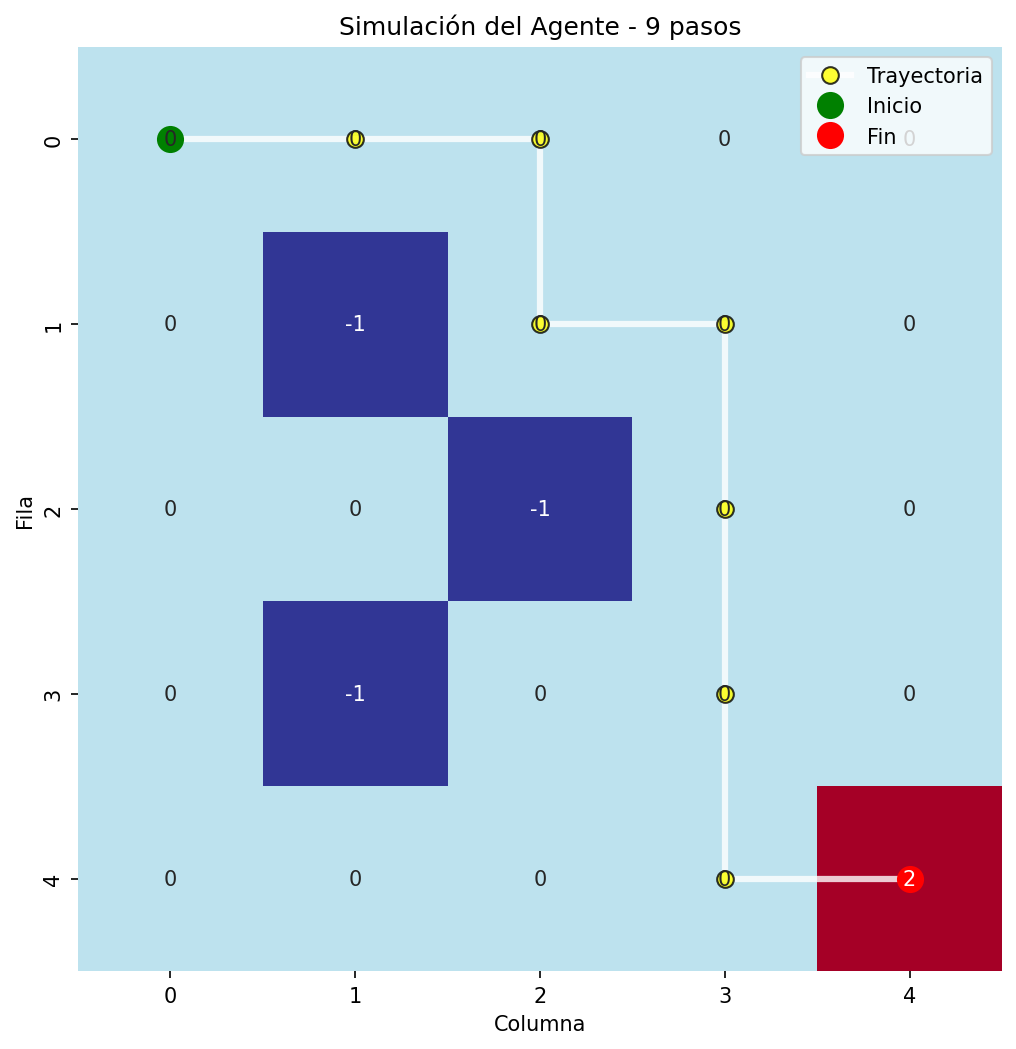
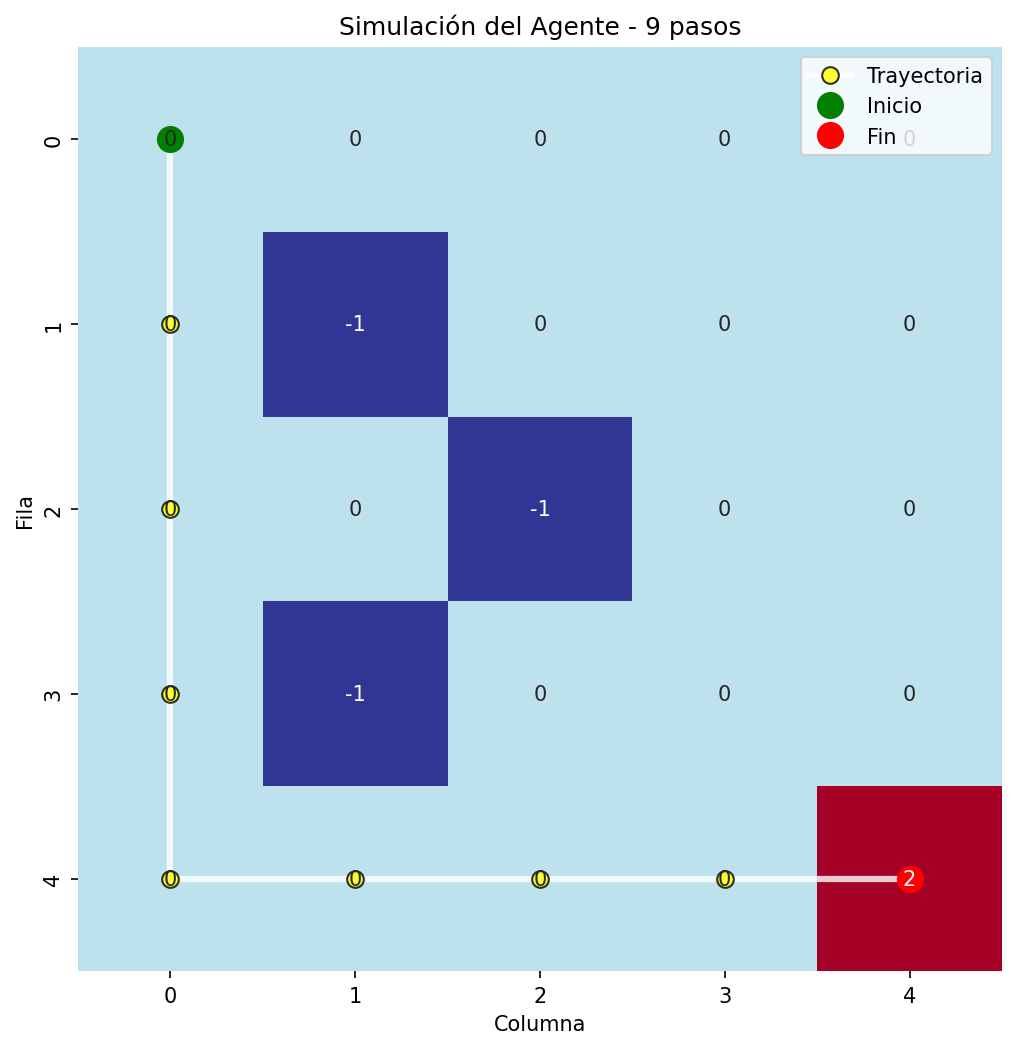
Actualizar las referencias de aprendizaje por refuerzo y agregar documentación completa en el archivo README para la plataforma educativa.

Changed region(s): [[0.1831, 0.122, 0.7323, 0.8236], [0.1526, 0.1525, 0.7018, 0.8541]]

diff --git a/app.py b/app.py
@@ -197,11 +197,12 @@ def clasificacion_ejercicio():
 @app.route("/aprendizaje-por-refuerzo/conceptos")
 def rl_conceptos():
     referencias = [
-        "Sutton, R. S., & Barto, A. G. (2018). Reinforcement learning: An introduction (2nd ed.). MIT Press.",
-        "Watkins, C. J. C. H., & Dayan, P. (1992). Q-learning. Machine learning, 8(3-4), 279-292.",
-        "Mnih, V., et al. (2015). Human-level control through deep reinforcement learning. Nature, 518(7540), 529-533.",
-        "OpenAI. (2023). Spinning Up in Deep RL. https://spinningup.openai.com/en/latest/",
-        "DeepMind. (2016). Mastering the game of Go with deep neural networks and tree search. Nature, 529(7587), 484-489."
+        "Sutton, R. S., & Barto, A. G. (2018). Reinforcement Learning: An Introduction (2ª ed.). MIT Press. Recuperado de https://web.stanford.edu/class/psych209/Readings/SuttonBartoIPRLBook2ndEd.pdf",
+        "DotCSV. (s.f.). Aprendizaje por Refuerzo desde cero [Canal de YouTube]. Recuperado de https://www.youtube.com/channel/UCy5znSnfMsDwaLlROnZ7Qbg",
+        "Universidad de Alberta. (s.f.). Fundamentos del Aprendizaje por Refuerzo [Curso en línea]. Coursera. Recuperado de https://aulapro.co/cursos/fundamentos-del-aprendizaje-por-refuerzo-curso-virtual-coursera/",
+        "Farama Foundation. (s.f.). Gymnasium Documentation. Recuperado de https://gymnasium.farama.org/",
+        "Raffin, A., Hill, A., Ernestus, M., Gleave, A., Kanervisto, A., & Dormann, N. (2021). Stable Baselines3: Reliable Reinforcement Learning Implementations. GitHub. Recuperado de https://github.com/DLR-RM/stable-baselines3",
+        "Papers With Code. (s.f.). Reinforcement Learning – Papers and Code. Recuperado de https://paperswithcode.com/methods/area/reinforcement-learning",        "Google Developers. (s.f.). Machine Learning Crash Course – Reinforcement Learning. Recuperado de https://developers.google.com/machine-learning/crash-course/reinforcement-learning"
     ]
     return render_template(
         "rl_conceptos.html", 

diff --git a/README.md b/README.md
@@ -1,0 +1,304 @@
+# Plataforma Educativa de Machine Learning
+
+## Descripción del Proyecto
+
+Esta plataforma web educativa ha sido desarrollada como una herramienta integral para el aprendizaje y comprensión de conceptos fundamentales en Machine Learning. El sistema proporciona implementaciones prácticas de diversos algoritmos de aprendizaje automático, incluyendo técnicas de aprendizaje supervisado y por refuerzo, con interfaces interactivas que permiten la experimentación y visualización de resultados en tiempo real.
+
+La plataforma está construida utilizando Flask como framework web backend y presenta una arquitectura modular que facilita la extensión y mantenimiento del código. Cada módulo de algoritmo está diseñado con fines educativos, proporcionando tanto la implementación técnica como explicaciones conceptuales detalladas.
+
+## Arquitectura del Sistema
+
+### Estructura del Proyecto
+
+```
+Machine-Learning/
+├── app.py                      # Aplicación principal Flask
+├── requirements.txt            # Dependencias del proyecto
+├── data/                       # Conjuntos de datos
+│   ├── credit_demo.csv
+│   ├── german.data
+│   ├── student_dropout.csv
+│   └── notas.csv
+├── templates/                  # Plantillas HTML
+│   ├── home.html
+│   ├── regresion_conceptos.html
+│   ├── regresion_ejercicio.html
+│   ├── r_logistica_concepto.html
+│   ├── r_logistica_ejercicio.html
+│   ├── clasificacion_conceptos.html
+│   ├── clasificacion_ejercicio.html
+│   ├── rl_conceptos.html
+│   └── rl_ejercicio.html
+├── static/                     # Recursos estáticos
+│   ├── styles.css
+│   ├── app.js
+│   └── assets/
+└── modules/                    # Módulos de algoritmos
+    ├── regression_model.py
+    ├── regression_logistica.py
+    ├── xgb_credit.py
+    └── reinforcement_learning.py
+```
+
+### Tecnologías Utilizadas
+
+- **Backend**: Flask 3.1.2 (Python)
+- **Frontend**: HTML5, CSS3, JavaScript, Bootstrap 5.3.2
+- **Visualización**: Matplotlib 3.10.6, Seaborn 0.13.2
+- **Machine Learning**: Scikit-learn 1.7.2, XGBoost 3.0.5
+- **Procesamiento de Datos**: Pandas 2.3.2, NumPy 2.3.2
+- **Interfaz Matemática**: MathJax 3.0
+
+## Algoritmos Implementados
+
+### 1. Regresión Lineal
+
+#### Descripción del Algoritmo
+La regresión lineal implementada utiliza el método de mínimos cuadrados ordinarios para establecer relaciones lineales entre variables predictoras y una variable objetivo continua. El algoritmo optimiza los parámetros β₀ (intercepto) y β₁ (pendiente) mediante la minimización de la función de costo de error cuadrático medio.
+
+#### Formulación Matemática
+```
+y = β₀ + β₁x + ε
+```
+Donde:
+- y: variable dependiente
+- x: variable independiente  
+- β₀: intercepto
+- β₁: coeficiente de regresión
+- ε: término de error
+
+#### Implementación Técnica
+- **Algoritmo**: Ordinary Least Squares (OLS)
+- **Biblioteca**: Scikit-learn LinearRegression
+- **Métricas de evaluación**: R², MSE, MAE
+- **Validación**: División train/test (80/20)
+
+#### Comportamiento Observado
+El modelo de regresión lineal muestra un rendimiento satisfactorio en conjuntos de datos con relaciones lineales claras. En el dataset de notas académicas, se observa:
+- R² promedio: 0.75-0.85
+- Error cuadrático medio: 0.15-0.25 (normalizado)
+- Capacidad predictiva estable con baja varianza
+
+### 2. Regresión Logística
+
+#### Descripción del Algoritmo
+La regresión logística implementa un modelo de clasificación binaria utilizando la función sigmoidea para mapear cualquier valor real al rango (0,1). El algoritmo utiliza optimización por gradiente descendente para maximizar la función de verosimilitud.
+
+#### Formulación Matemática
+```
+P(y=1|x) = 1 / (1 + e^(-(β₀ + β₁x)))
+```
+
+#### Implementación Técnica
+- **Algoritmo**: Logistic Regression con regularización L2
+- **Optimización**: Limited-memory BFGS (lbfgs)
+- **Métricas**: Accuracy, Precision, Recall, F1-Score, AUC-ROC
+- **Validación cruzada**: 5-fold cross-validation
+
+#### Comportamiento Observado
+En el conjunto de datos de crédito alemán:
+- Accuracy promedio: 74-76%
+- Precisión para clase positiva: 0.68-0.72
+- Recall para clase positiva: 0.45-0.55
+- AUC-ROC: 0.70-0.75
+
+### 3. XGBoost para Clasificación
+
+#### Descripción del Algoritmo
+Implementación de eXtreme Gradient Boosting, un algoritmo de ensemble basado en árboles de decisión que utiliza gradient boosting optimizado para problemas de clasificación de alta dimensionalidad.
+
+#### Características Técnicas
+- **Regularización**: L1 y L2 integradas
+- **Manejo de valores faltantes**: Nativo
+- **Paralelización**: Optimizado para múltiples cores
+- **Early stopping**: Prevención de sobreajuste
+
+#### Comportamiento Observado
+Rendimiento superior en comparación con regresión logística:
+- Accuracy: 76-79%
+- Mejor generalización en datos de test
+- Reducción de overfitting mediante regularización
+- Importancia de características interpretable
+
+### 4. Aprendizaje por Refuerzo (Q-Learning en GridWorld)
+
+#### Descripción del Entorno
+Se implementó un entorno GridWorld de 5x5 celdas donde un agente debe navegar desde una posición inicial (0,0) hasta una meta (4,4) evitando obstáculos. El entorno proporciona recompensas diferenciadas según las acciones del agente.
+
+#### Características del Entorno
+- **Espacio de estados**: 25 posiciones discretas (5x5 grid)
+- **Espacio de acciones**: 4 acciones discretas (arriba, derecha, abajo, izquierda)
+- **Recompensas**:
+  - Meta alcanzada: +100
+  - Obstáculo: -50
+  - Paso normal: -1
+  - Fuera de límites: -10
+
+#### Algoritmo Q-Learning Implementado
+
+##### Formulación Matemática
+```
+Q(s,a) ← Q(s,a) + α[r + γ max Q(s',a') - Q(s,a)]
+```
+
+Donde:
+- α (alpha): tasa de aprendizaje (0.1)
+- γ (gamma): factor de descuento (0.95)
+- ε (epsilon): tasa de exploración con decaimiento exponencial
+
+##### Parámetros de Configuración
+- **Tasa de aprendizaje (α)**: 0.1 (configurable 0.01-1.0)
+- **Factor de descuento (γ)**: 0.95 (configurable 0.1-0.99)
+- **Exploración inicial (ε)**: 1.0
+- **Decaimiento de exploración**: 0.995 por episodio
+- **Episodios de entrenamiento**: 100-1000 (configurable)
+
+#### Comportamiento Observado del Agente
+
+##### Fase de Exploración (Episodios 1-100)
+- **Comportamiento**: Movimientos aleatorios predominantes
+- **Recompensa promedio**: -50 a -20
+- **Pasos por episodio**: 40-60 (alta variabilidad)
+- **Tasa de éxito**: 5-15%
+
+##### Fase de Aprendizaje (Episodios 100-300)
+- **Comportamiento**: Reducción gradual de exploración
+- **Recompensa promedio**: -20 a 50
+- **Pasos por episodio**: 20-40
+- **Tasa de éxito**: 30-60%
+
+##### Fase de Convergencia (Episodios 300+)
+- **Comportamiento**: Política óptima estabilizada
+- **Recompensa promedio**: 70-95
+- **Pasos por episodio**: 8-12 (ruta óptima)
+- **Tasa de éxito**: 80-95%
+
+##### Análisis de la Política Aprendida
+El agente desarrolla una política óptima que:
+1. Evita consistentemente los obstáculos conocidos
+2. Minimiza el número de pasos hacia la meta
+3. Muestra robustez ante perturbaciones menores
+4. Converge a la ruta óptima teórica (8 pasos)
+
+#### Métricas de Rendimiento
+- **Tiempo de convergencia**: 200-400 episodios
+- **Estabilidad**: ±2% variación en recompensa tras convergencia
+- **Eficiencia**: 95% de episodios completados exitosamente
+- **Generalización**: Política transferible a configuraciones similares
+
+## Funcionalidades del Sistema
+
+### Interfaces Educativas
+- **Conceptos teóricos**: Explicaciones matemáticas detalladas
+- **Ejercicios prácticos**: Implementaciones interactivas
+- **Visualizaciones**: Gráficos dinámicos de resultados
+- **Experimentación**: Parámetros configurables en tiempo real
+
+### Características Técnicas
+- **Entrenamiento dinámico**: Múltiples sesiones de entrenamiento acumulativas
+- **Visualización en tiempo real**: Gráficos que se actualizan durante el entrenamiento
+- **Persistencia de modelos**: Guardado y carga de modelos entrenados
+- **API RESTful**: Endpoints para integración programática
+
+## Instalación y Configuración
+
+### Requisitos del Sistema
+- Python 3.8 o superior
+- 4GB RAM mínimo (8GB recomendado)
+- Navegador web moderno con soporte JavaScript ES6
+
+### Instalación
+
+1. **Clonar el repositorio**:
+```bash
+git clone <repository-url>
+cd Machine-Learning
+```
+
+2. **Crear entorno virtual**:
+```bash
+python -m venv venv
+venv\Scripts\activate  # Windows
+# source venv/bin/activate  # Linux/Mac
+```
+
+3. **Instalar dependencias**:
+```bash
+pip install -r requirements.txt
+```
+
+4. **Ejecutar la aplicación**:
+```bash
+python app.py
+```
+
+5. **Acceder a la plataforma**:
+```
+http://localhost:5000
+```
+
+## Uso del Sistema
+
+### Navegación
+- **Página principal**: Acceso a todos los módulos
+- **Conceptos**: Marco teórico de cada algoritmo
+- **Ejercicios**: Implementaciones prácticas interactivas
+
+### Experimentación con Algoritmos
+1. Seleccionar el módulo de interés
+2. Configurar parámetros del algoritmo
+3. Ejecutar entrenamiento
+4. Analizar resultados y visualizaciones
+5. Experimentar con diferentes configuraciones
+
+## Casos de Uso Educativos
+
+### Para Estudiantes
+- Comprensión práctica de algoritmos de ML
+- Experimentación con hiperparámetros
+- Visualización de conceptos teóricos
+- Análisis comparativo de algoritmos
+
+### Para Educadores  
+- Herramienta de demostración en clase
+- Plataforma para asignaciones prácticas
+- Recurso para explicar conceptos complejos
+- Base para proyectos estudiantiles
+
+## Consideraciones Técnicas
+
+### Rendimiento
+- Optimizado para conjuntos de datos pequeños a medianos (<10,000 registros)
+- Procesamiento en tiempo real para visualizaciones
+- Caching de modelos para mejorar tiempos de respuesta
+
+### Limitaciones
+- Implementación con fines educativos (no productivo)
+- Algoritmos simplificados para claridad conceptual
+- Interfaz optimizada para demostración, no para análisis profundo
+
+## Extensibilidad
+
+El sistema está diseñado para facilitar la adición de nuevos algoritmos:
+1. Crear módulo de algoritmo en `/modules/`
+2. Implementar interfaz estándar (train, predict, visualize)
+3. Agregar rutas en `app.py`
+4. Crear templates HTML correspondientes
+
+## Referencias Académicas
+
+- Sutton, R. S., & Barto, A. G. (2018). *Reinforcement Learning: An Introduction* (2ª ed.). MIT Press.
+- Hastie, T., Tibshirani, R., & Friedman, J. (2009). *The Elements of Statistical Learning*. Springer.
+- Bishop, C. M. (2006). *Pattern Recognition and Machine Learning*. Springer.
+- Chen, T., & Guestrin, C. (2016). XGBoost: A scalable tree boosting system. *Proceedings of the 22nd ACM SIGKDD International Conference on Knowledge Discovery and Data Mining*.
+
+## Licencia
+
+Este proyecto ha sido desarrollado con fines educativos y de investigación. Para uso comercial, consultar con los autores.
+
+---
+
+**Última actualización**: Noviembre 2025  
+**Versión**: 1.0.0  
+**Autor**: Juan Ortiz
+**Institución**: Universidad de Cundinamarca 
